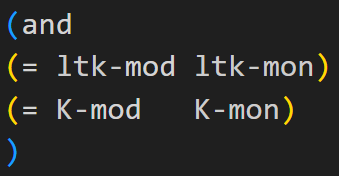
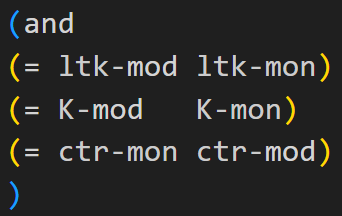
tutorial

Changed region(s): [[0.5605, 0.2557, 0.9735, 0.767], [0.1475, 0.2273, 0.531, 0.767], [0.0, 0.0284, 0.236, 0.9659]]

diff --git a/example-projects/ae-mini/_build/latex/Proof_Modularize_perm.tex b/example-projects/ae-mini/_build/latex/Proof_Modularize_perm.tex
@@ -1,7 +1,8 @@
 \documentclass[a4paper]{article}
-\usepackage[margin=1in]{geometry}
+\usepackage[margin=0.8in]{geometry}
 \usepackage[operators]{cryptocode}
 \usepackage{tikz}
+\usepackage{wrapfig}
 \renewcommand\O[1]{\ensuremath{\mathsf{#1}}}
 \newcommand{\M}[1]{\ensuremath{\text{\texttt{#1}}}}
 \newcommand{\n}[1]{\ensuremath{\mathit{#1}}}
@@ -10,29 +11,57 @@
 %\title{Proof: Modularize}
 \begin{document}
 %\maketitle
-\section{Games}
-\subsection{monprfreal Game}
-\begin{center}
-\input{CompositionGraph_monprfreal_perm.tex}
-\end{center}
-\begin{center}
-\begin{pchstack}
-\input{Package_red_perm.tex}
-\pchspace
-\input{Package_prf.tex}
-\end{pchstack}
-\end{center}
-\subsection{modprfreal Game}
-\begin{center}
-\input{CompositionGraph_modprfreal_perm.tex}
-\end{center}
-\begin{center}
+\vspace{-5cm}
+
+\section{Example of a code equivalence proof}
+%\subsection{monprfreal Game}
+
+\begin{wrapfigure}{R}{0.6\textwidth}
+\vspace{-0.7cm}
+\begin{pcvstack}
+\underline{\underline{monprfreal Game}}\\
+\scalebox{0.8}{
+\input{CompositionGraph_modprfreal_perm.tex}}
+\pcvspace
 \begin{pchstack}
 \input{Package_mod_prf.tex}
-\pchspace
 \input{Package_key_perm.tex}
 \end{pchstack}
-\end{center}
+\end{pcvstack}
+\vspace{-0.5cm}
+\end{wrapfigure}
+
+
+When writing SSP-style proofs, we often write PRF assumptions modularly. For example, we ``move out'' the outputs of the PRF into a key package (see figure on the right). Security of a PRF can then be defined by using an real key package (see figure on the right) or an ideal key package (not depicted---instead of writing $k$ to $K[h]$, it samples a random value instead) and requiring indistinguishability between the two modular games described by using a real and an ideal key package, respectively.
+
+
+In this note, we want to consider the case that we want to show via reduction that this SSP-style modular PRF notion is implied by a standard monolithic PRF security notion. In this case, we write a reduction (reductionPRF on the right) 
+
+\begin{wrapfigure}{R}{0.5\textwidth}
+\vspace{-0.7cm}
+\begin{pcvstack}
+\underline{\underline{monprfreal Game}}\\
+\scalebox{0.8}{
+\input{CompositionGraph_monprfreal_perm.tex}}
+\pcvspace
+\begin{pchstack}
+\input{Package_red_perm.tex}
+\input{Package_prf.tex}
+\end{pchstack}
+\scalebox{0.7}{\includegraphics{lemmas.png}}
+\pcvspace
+\scalebox{0.7}{\includegraphics{invariant-code.png}}
+\pchspace
+\scalebox{0.7}{\includegraphics{randomness-mapping.png}}
+\end{pcvstack}
+\vspace{-1.2cm}
+\end{wrapfigure}
+
+\noindent
+and need to show that the reduction composed with the real monolithic PRF game (monprfreal on the right) behaves in the same way as the real modular PRF game (modprfreal on the right). Moreover, we need to prove the analogous statement for the ideal PRF games. In this note, we focus on the real case only and omit the ideal case.
+
+
+
 %\subsection{monprfideal Game}
 %\input{CompositionGraph_monprfideal.tex}
 %\end{center}
@@ -54,13 +83,15 @@
 %\input{Package_key_perm.tex}
 %\end{pchstack}
 %\end{center}
-\section{Equivalence between modprfreal and monprfreal}
-\scalebox{0.7}{\includegraphics{invariant-code.png}}
-\scalebox{0.7}{\includegraphics{randomness-mapping.png}}
-\scalebox{0.7}{\includegraphics{lemmas.png}}
 
-\noindent
-We need to define an invariant on the states of the two games (left), namely that the two games have the same content in table $K$ and variable $\mathsf{ltk}$. We need a randomness relation (middle), namely, that the two games use the same randomness to sample $\mathsf{ltk}$. Then, the SMT solver tries to prove the three core lemmas (right) for us, namely that invariant implies equal aborts, and, if there are no aborts, then the invariant holds again after the call and the outputs are equal.
+The main idea is a proof by induction over the number of oracle class. We define an invariant on the states of the two games which holds in the beginning of the game and such that for all oracles Set, Eval and Get, the following holds:
+\begin{itemize}
+\item If the invariant holds before an oracle call, then one game aborts iff the other game aborts.
+\item If the invariant holds before an oracle call and none of the two game aborts, then the invariant holds after an oracle call as well.
+\item If the invariant holds before an oracle call and none of the two game aborts, then the oracle calls in both games return the same answer to the adversary.
+\end{itemize}
+We depict these three lemmas for the Eval oracle on the right. The SMT solver proves these lemmas automatically, but needs the invariant to be defined by the user. In this case, the invariant that we define is very simple, namely, the two games need to have the same content in table $K$ (K-mod and K-mon) and variable $\mathsf{ltk}$ (ltk-mod and ltk-mon). SMTlib uses a style where the operator comes first and the arguments next, so (= K-mod K-mon) refers to K-mod being equal to K-mon. Additionally, the state invariant requires the counters for randomness to be equal which brings us to the topic of randomness. Since the games perform some sampling (sampling of $\mathsf{ltk}$), we need a randomness relation to say that they use the \emph{same} randomness (as else, they would compute different PRF values based on different $\mathsf{ltk}$). Here, we say that both randomness samplings with identifier 1 are equal. (= ctr-mod ctr-mon) refers to equality of the counters in the state (which our invariant sais are equal) and icr-mod and icr-mon refer to the incremented counters in this oracle calls which are equal to ctr-mon and ctr-mod, since there was no randomness sampling before within this oracle call. (TODO: explain more)
+
 
 %\section{Equivalence between modprfreal and monprfreal}
 \end{document}

diff --git a/example-projects/ae-mini/_build/latex/Oracle_mod_prf_Eval.tex b/example-projects/ae-mini/_build/latex/Oracle_mod_prf_Eval.tex
@@ -4,5 +4,5 @@
 \pcind \n{ltk} \gets \O{some}(\n{ltk\_})\\
  \n{ltk\_} \gets \O{unwrap}(\n{ltk})\\
  \n{k} \gets \O{prf}(\n{ltk\_}, \n{h})\\
-\n{\_} \stackrel{\mathsf{\tiny{invoke}}}{\gets} \O{Set}(\n{k}, \n{h}) \pccomment{Pkg: key} \\
+\n{\_} \stackrel{\mathsf{\tiny{invoke}}}{\gets} \O{Set}(\n{k}, \n{h}) \pccomment{Pkg: key}
 }
